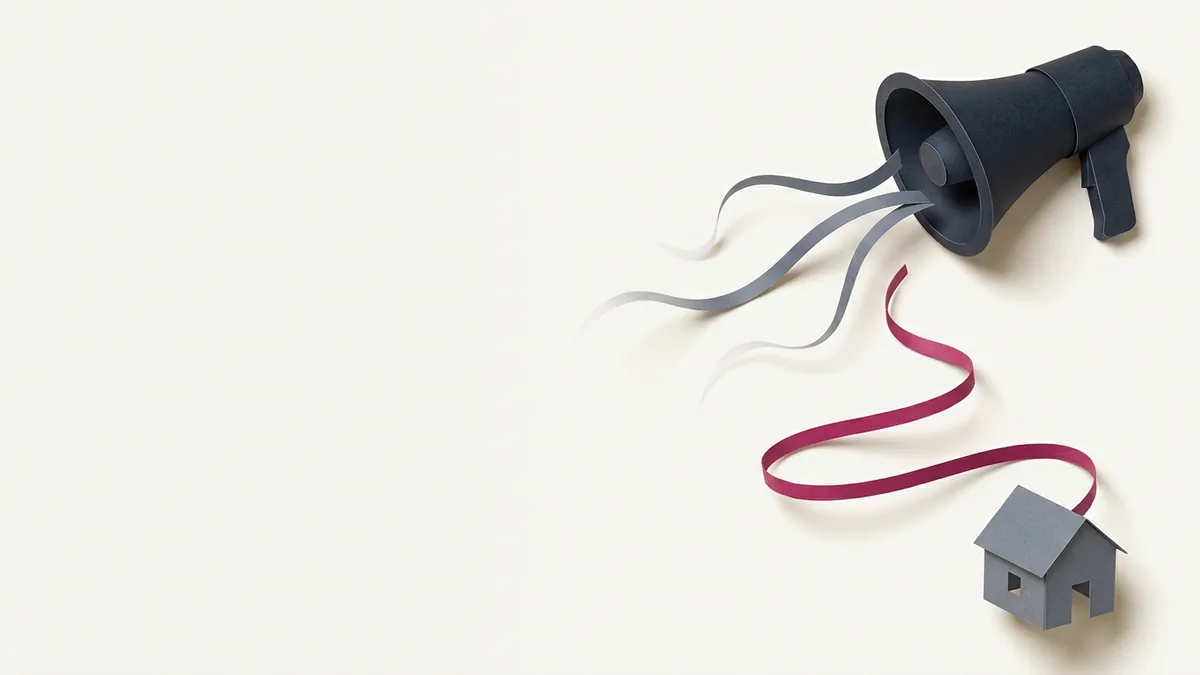
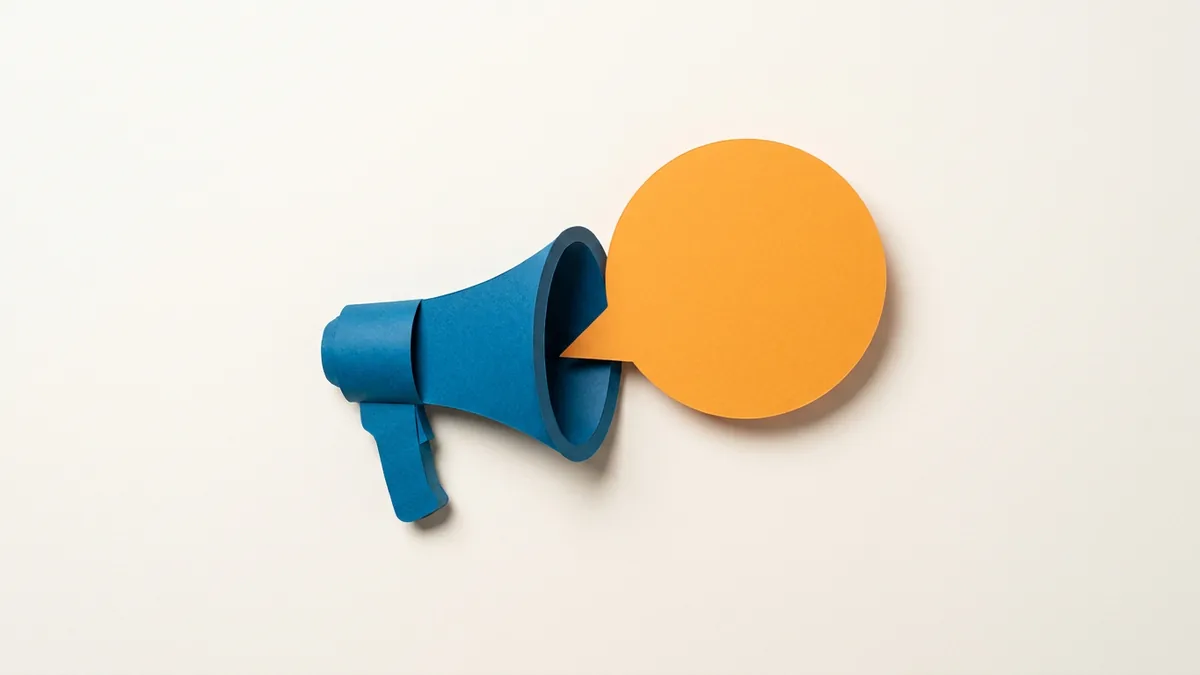
insights: ชื่อผู้เขียน · ความเห็นของผู้เขียน · การใช้ AI · วิธีอ้างอิง · ภาพ hero ตาม BRAND.md (#81)
* insights: author byline, opinion disclaimer, AI-assistance note and suggested citation

All three posts are by Smith Boonchutima. Each article page now says the views
are the author's own, that AI helped polish and translate the text and the
author reviewed it, and gives an APA-style citation (Thai version in B.E.).
JSON-LD author becomes the person rather than the Center.

Claude-Session: https://claude.ai/code/session_01CQJsM3v3SyBC2VxjnAvC4W

* insights: replace dark hero images with BRAND.md E3 paper-craft (LINE megaphone, AI microphone)

Claude-Session: https://claude.ai/code/session_01CQJsM3v3SyBC2VxjnAvC4W

---------

Changed region(s): [[0.2467, 0.0622, 0.9867, 1.0], [0.9867, 0.9956, 1.0, 1.0]]

diff --git a/src/data/insights.ts b/src/data/insights.ts
@@ -65,6 +65,16 @@ export type InsightCopy = {
   ogImage?: string;
 };
 
+export type InsightAuthor = {
+  th: string;
+  en: string;
+  /** สำหรับรายการอ้างอิงแบบ APA: นามสกุล, อักษรย่อชื่อ */
+  apa: string;
+};
+
+/** บทความทุกชิ้นในชุดแรกเขียนโดยคนเดียวกัน — ประกาศครั้งเดียว ไม่พิมพ์ชื่อซ้ำสามที่ */
+const SMITH: InsightAuthor = { th: "สมิทธิ์ บุญชุติมา", en: "Smith Boonchutima", apa: "Boonchutima, S." };
+
 export type InsightPost = {
   slug: string;
   /** YYYY-MM-DD วันที่เผยแพร่บนเว็บ */
@@ -75,6 +85,8 @@ export type InsightPost = {
   evidence?: string[];
   /** slug ของโครงการบนหน้า Impact ที่บทความอ้างถึง */
   relatedProjects?: string[];
+  /** ผู้เขียน — แสดงใต้หัวเรื่อง ในรายการอ้างอิงที่แนะนำ และใน JSON-LD (ผู้ใช้กำหนด 23 ต.ค. 2569) */
+  author: InsightAuthor;
   th: InsightCopy;
   en: InsightCopy;
 };
@@ -83,6 +95,7 @@ export const insights: InsightPost[] = [
   {
     slug: "co-designed-campaigns-migrant-workers",
     date: "2026-10-20",
+    author: SMITH,
     cover: "/images/research/summaries/migrant-worker-exercise-codesign",
     evidence: [
       "migrant-worker-exercise-codesign",
@@ -384,10 +397,11 @@ export const insights: InsightPost[] = [
   {
     slug: "line-news-trust-2026",
     date: "2026-10-21",
+    author: SMITH,
     cover: "/images/insights/line-news-trust-2026-hero",
     th: {
       coverAlt:
-        "ภาพประกอบกระดาษ โทรโข่งสีดำปล่อยแถบกระดาษสีเทาหลายเส้นที่ลอยจางหายไปกลางทาง มีเพียงแถบสีชมพูเส้นเดียวที่คดเคี้ยวลงไปถึงบ้านหลังเล็ก",
+        "ภาพประกอบกระดาษ โทรโข่งสีน้ำเงินบนพื้นกระดาษสีครีม เสียงที่ออกจากปากโทรโข่งกลายเป็นบับเบิลแชตสีส้มกลมๆ อันเดียว",
       coverCaption: "ภาพประกอบสร้างด้วย AI",
       title: "ช่องทางมีแล้ว แต่ความเชื่อใจหายไป: บทเรียนจากข้อมูลข่าวสารของคนไทยปี 2026",
       dek: "ข้อมูลปี 2026 ชี้ว่าคนไทยรับข่าวผ่านเฟซบุ๊กและ LINE แต่ความเชื่อมั่นต่อข่าวลดเหลือ 47% หน่วยงานรัฐควรสื่อสารอย่างไรให้คนเชื่อและลงมือทำ",
@@ -526,7 +540,7 @@ export const insights: InsightPost[] = [
     en: {
       title: "The channels are there, the trust is not: what Thailand's 2026 news data tells public communicators",
       coverAlt:
-        "Paper-craft illustration: a black megaphone sends out several grey paper strips that drift and fade, while a single pink strip winds all the way down to a small house",
+        "Paper-craft illustration on cream paper: a blue megaphone whose sound turns into a single round orange chat bubble",
       coverCaption: "Illustration generated with AI",
       dek: "Data from 2026 shows Thais get their news on Facebook and LINE, yet trust in news has fallen to 47%. How should government agencies communicate so that people believe the message and act on it?",
       body: [
@@ -664,10 +678,11 @@ export const insights: InsightPost[] = [
   {
     slug: "ai-news-comfort-2025",
     date: "2026-10-21",
+    author: SMITH,
     cover: "/images/insights/ai-news-comfort-2025-hero",
     th: {
       coverAlt:
-        "ภาพประกอบกระดาษ เวทีเล็กที่มีม่านสีดำ ไมโครโฟนสีชมพูตั้งอยู่หน้าม่าน ส่วนเฟืองสีเทาซ่อนอยู่หลังม่านที่แง้มไว้",
+        "ภาพประกอบกระดาษ ไมโครโฟนตั้งโต๊ะสีส้มบนพื้นกระดาษสีครีม ฐานของไมโครโฟนเป็นเฟืองสีน้ำเงิน",
       coverCaption: "ภาพประกอบสร้างด้วย AI",
       title: "ให้ AI ช่วยได้ แต่อย่าให้ AI เป็นคนเล่า",
       dek: "ผลสำรวจ 6 ประเทศพบว่าคนสบายใจกับข่าวที่คนเขียน 62% แต่เหลือ 12% ถ้า AI เขียนทั้งหมด องค์กรไทยควรใช้ AI ในงานสื่อสารอย่างไรให้ไม่เสียความเชื่อใจ",
@@ -908,7 +923,7 @@ export const insights: InsightPost[] = [
     en: {
       title: "Let AI help, but don't let AI tell the story",
       coverAlt:
-        "Paper-craft illustration: a small stage with a black curtain, a pink microphone standing in front, and a grey gear half-hidden behind the parted curtain",
+        "Paper-craft illustration on cream paper: an orange desk microphone standing on a blue gear as its base",
       coverCaption: "Illustration generated with AI",
       dek: "A six-country survey finds 62% are comfortable with news written by people, but only 12% when AI writes it all. How should organisations use AI in communication without losing trust?",
       body: [

diff --git a/src/components/insights/InsightPages.tsx b/src/components/insights/InsightPages.tsx
@@ -25,6 +25,19 @@ function formatDate(iso: string, locale: FullLocale): string {
   return locale === "th" ? `${d} ${THAI_MONTHS[m - 1]} ${y + 543}` : `${d} ${EN_MONTHS[m - 1]} ${y}`;
 }
 
+/**
+ * รายการอ้างอิงที่แนะนำ — APA 7 สำหรับบทความบนเว็บไซต์ (ผู้เขียน · วันที่ · ชื่อเรื่อง · ผู้เผยแพร่ · URL)
+ * ฉบับไทยใช้ชื่อเต็มและปี พ.ศ. ตามธรรมเนียมการอ้างอิงภาษาไทย
+ */
+function suggestedCitation(post: InsightPost, locale: FullLocale): string {
+  const [y, m, d] = post.date.split("-").map(Number);
+  const url = `https://www.cominnocenter.com${locale === "th" ? "" : "/en"}/insights/${post.slug}`;
+  const t = T[locale];
+  return locale === "th"
+    ? `${post.author.th}. (${y + 543}, ${d} ${THAI_MONTHS[m - 1]}). ${post.th.title}. ${t.publisher}. ${url}`
+    : `${post.author.apa} (${y}, ${EN_MONTHS[m - 1]} ${d}). ${post.en.title}. ${t.publisher}. ${url}`;
+}
+
 const T = {
   th: {
     base: "/insights",
@@ -35,6 +48,12 @@ const T = {
     home: "← กลับหน้าหลัก",
     all: "บทความทั้งหมด",
     evidence: "งานวิจัยที่บทความนี้อ้างถึง",
+    by: "โดย",
+    about: "เกี่ยวกับบทความนี้",
+    opinion: "บทความนี้เป็นความคิดเห็นของผู้เขียน ไม่ได้สะท้อนความคิดเห็นของศูนย์ฯ",
+    aiNote: "บทความได้รับการปรับปรุงภาษาและแปลภาษาโดยใช้ AI ช่วย และผู้เขียนได้ตรวจทานแล้ว",
+    citeTitle: "หากต้องการอ้างอิงบทความนี้",
+    publisher: "ศูนย์เชี่ยวชาญเฉพาะทางด้านนวัตกรรมการสื่อสาร คณะนิเทศศาสตร์ จุฬาลงกรณ์มหาวิทยาลัย",
     references: "อ้างอิง",
     project: "โครงการที่เกี่ยวข้อง",
     collaborate: "ร่วมงานกับเรา",
@@ -51,6 +70,12 @@ const T = {
     home: "← Back to home",
     all: "All insights",
     evidence: "Research cited in this article",
+    by: "By",
+    about: "About this article",
+    opinion: "This article reflects the views of the author and does not necessarily reflect those of the Center.",
+    aiNote: "The language of this article was refined and translated with the help of AI, and the author has reviewed it.",
+    citeTitle: "To cite this article",
+    publisher: "Center of Excellence in Communication Innovation, Faculty of Communication Arts, Chulalongkorn University",
     references: "References",
     project: "Related project",
     collaborate: "Collaborate with us",
@@ -148,7 +173,9 @@ export function InsightArticlePage({ post, locale }: { post: InsightPost; locale
               </Link>
             </nav>
             <div className="mt-6 max-w-3xl">
-              <p className="text-sm font-medium text-neutral-500 mb-3">{formatDate(post.date, locale)}</p>
+              <p className="text-sm font-medium text-neutral-500 mb-3">
+                {t.by} {post.author[locale]} · {formatDate(post.date, locale)}
+              </p>
               <h1 className="text-h1-m md:text-h1 text-ink-900">{c.title}</h1>
               <p className="mt-4 text-lg text-neutral-600 leading-relaxed">{c.dek}</p>
             </div>
@@ -200,6 +227,14 @@ export function InsightArticlePage({ post, locale }: { post: InsightPost; locale
               )}
             </div>
             )}
+
+            <div className="mt-12 rounded-2xl border border-neutral-200 bg-neutral-100 p-6 text-sm leading-relaxed text-neutral-700">
+              <h2 className="text-h3-m md:text-h3 text-ink-900 mb-3">{t.about}</h2>
+              <p>{t.opinion}</p>
+              <p className="mt-2">{t.aiNote}</p>
+              <p className="mt-4 font-medium text-ink-900">{t.citeTitle}</p>
+              <p className="mt-1 break-words select-all">{suggestedCitation(post, locale)}</p>
+            </div>
 
             {c.references && c.references.length > 0 && (
               <div className="mt-12">

diff --git a/src/lib/schema.ts b/src/lib/schema.ts
@@ -288,7 +288,7 @@ export function insightArticleSchema(post: InsightPost, locale: FullLocale) {
     inLanguage: locale,
     image: `${SITE_URL}${insightImage(post, locale)}`,
     mainEntityOfPage: `${SITE_URL}${path}`,
-    author: { "@id": ORG_ID },
+    author: { "@type": "Person", name: post.author[locale] },
     publisher: { "@id": ORG_ID },
   };
 }

diff --git a/CLAUDE.md b/CLAUDE.md
@@ -95,7 +95,7 @@ public/
 | `researchMetrics.ts` | **ตัวชี้วัดระดับวารสารและระดับศูนย์ฯ จาก Scopus CiteScore 2025** (ผู้ใช้เก็บเอง 8 ก.ย. 2569) — `journalMetrics` 19 เล่ม · `centreSummary` · `scopusAuthors` 6 ท่าน · **จับคู่กับผลงานด้วยชื่อวารสาร ไม่ใช่ DOI** เพราะชุดข้อมูลต้นทางมี DOI ผิดสามรายการ (หนึ่งชี้ไปประกาศแก้ไขของบทความ อีกสองชี้ไปวิทยานิพนธ์ของนิสิต — ตรวจกับ Crossref แล้ว) DOI ที่ถูกอยู่ใน `publications.ts` ซึ่งผ่านการตรวจของสคริปต์มาแล้ว · ตัวเทียบชื่อแปลง `&` เป็น `and` ด้วย ไม่งั้นผลงานแปดชิ้นจับคู่ไม่ติดทั้งที่เป็นวารสารเล่มเดียวกัน · **percentile ต้องแสดงคู่ชื่อสาขาเสมอ** วารสารเล่มเดียวถูกจัดหลายสาขาและค่าต่างกันมาก (American Behavioral Scientist 97th ใน Cultural Studies แต่ 75th ใน Social Psychology) `check:content` ตรวจให้แล้ว · **ตัวหารไม่เท่ากัน** ผลงานในฐาน Scopus 48 ชิ้น แต่ตรวจ CiteScore ได้ 32 ชิ้น เขียนได้ว่า "24 จาก 32 ผลงานที่ตรวจสอบได้อยู่ในวารสารกลุ่มบนสุด 25% ของสาขา" **เขียนไม่ได้ว่า** "ผลงาน 75% ของศูนย์ฯ อยู่ใน Q1" · **ไม่ใช้ FWCI** ตัดสินใจร่วมกับผู้ใช้แล้ว · **ไม่ใช้ widget ของ Scopus** เพราะทดสอบแล้วโค้ดที่เขาให้ฝังค่าไว้ตายตัวเหมือนกัน แต่บังคับให้เพิ่มโดเมนภายนอกเข้า CSP |
 | `paperSummaries.ts` | บทสรุปย่อยง่ายไทย+อังกฤษของผลงานที่ทำหน้า `/research/[slug]` — **64 ชิ้นจาก 91** · **ฉบับจีนตัวย่อเป็น field `zh?` + `illustrationAltZh?` (optional โดยตั้งใจ — ทยอยแปลเป็นชุด ชุดที่ 1 = 10 ชิ้น PR #64 · ชุดที่ 2 = งานสุขภาพ/แรงงานข้ามชาติ 10 ชิ้น PR #66 · ชุดที่ 3 = `argument` ทั้ง 8 ชิ้น + สุขภาพ 2 ชิ้น PR #67 · งานของ ดร.อิบเตซาม 2 ชิ้น PR #73 · ชุดที่ 4 = การตลาด/ผู้บริโภค 5 + เอเชียตะวันออกเฉียงใต้/SDG 5 PR #74 · ชุดที่ 5 = เรื่องทั่วไป 8 + เลือกตั้งผู้ว่าฯ กทม. 2 PR #75 · ชุดที่ 6 (สุดท้าย) = สื่อรัสเซีย 5 + หัวข้ออ่อนไหว 5 + แม่วงก์ + วิกฤตโคราช PR #76 · **ครบ 64 จาก 64** — บทสรุปที่เพิ่มหลังจากนี้ต้องเติม `zh` ด้วย ไม่งั้นจะไม่มีหน้าจีนเงียบๆ)** หน้า `/zh/research/[slug]` · hreflang `zh-Hans` บนหน้าไทย/อังกฤษ · sitemap · ลิงก์ "อ่านบทสรุป" บน `/zh/research` · ดัชนีค้นหา ล้วนอ่านจาก field นี้ตัวเดียว (`paperSummariesZh`) จึงเปิดพร้อมกัน · ตัวตรวจท้ายไฟล์โยน error ถ้า `zh` กับ `illustrationAltZh` ไม่ครบคู่ · หน้าจีนไม่มีวิดีโอเพราะคลิปพากย์ไทย/อังกฤษเท่านั้น · **`kind` มีสองค่าสำหรับงานที่ไม่มีผลเชิงประจักษ์** — `"protocol"` ประกาศแผนวิจัย 3 ชิ้น (หัวข้อเป็น "จะทำอะไร") และ `"argument"` บทความเชิงแนวคิด 8 ชิ้น (หัวข้อเป็น "เสนออะไร" และป้ายบอกด้วยว่า**ข้อเสนอเป็นของผู้เขียน ไม่ใช่จุดยืนของศูนย์ฯ**) · ทั้งสองค่าเปลี่ยนหน้าเว็บ **สี่ที่** ต้องแก้ครบ: หัวข้อใน `PaperSummaryBody` · ป้ายเหนือเนื้อหา · คำนำหน้าชื่อเรื่องบนหน้า detail ทั้งสองภาษา · คำบนลิงก์ใน `ResearchExplorer`) · ผูกกับ `publications.ts` ด้วย `doi` **หรือ `indexUrl`** เพราะวารสารไทยใน ThaiJO (`jprad`, `jcomm`, `jcmn`) **ไม่ออก DOI ให้บทความเลย** เขียนเป็น union type บังคับให้มีอย่างใดอย่างหนึ่ง และ `publicationForSummary()` จะโยน error ถ้าเชื่อมไม่ติด (ให้ build พังดีกว่าปล่อยหน้ากำพร้าที่อยู่ใน sitemap แต่ขึ้น 404) · **`license` ไม่มีค่า = วารสารสงวนลิขสิทธิ์ ไม่ใช่ยังไม่ได้ตรวจ** ห้ามเดาใส่ และหน้าเว็บต้องไม่แสดงข้อความ CC ให้รายการที่ไม่มีค่า · `pdfUrl` ชี้ไปคลังของวารสารต้นทาง (เปิดแท็บใหม่) **เว็บไม่เก็บไฟล์ PDF เอง** · `localCopy` คือสำเนาใน `research-sources/papers/` ไว้ให้ AI อ่าน ไม่ได้เสิร์ฟ — **ใส่ได้เฉพาะ Creative Commons เพราะคลัง GitHub นี้เป็นสาธารณะ** ดู `research-sources/README.md` · **เน้นข้อความด้วย `**...**` ได้** `PaperSummaryBody` แปลงให้เป็นน้ำหนัก 500 (ห้ามใช้ `<strong>` เปล่าๆ เพราะค่าเริ่มต้นเบราว์เซอร์คือ 700 ผิด BRAND.md) · **ห้ามระบุชื่อองค์กรหรือบุคคลที่ถูกวิจารณ์ในข้อค้นพบ** (กติกาข้อ 5 ในหัวไฟล์) บทความต้นฉบับระบุได้เพราะเป็นงานวิชาการ แต่บทสรุปบนเว็บเป็นงานเขียนของศูนย์ฯ เอง ผู้อ่านย่อมอ่านว่าเป็นคำตัดสินของศูนย์ฯ · ต้องตัดตัวเลขที่ชี้ตัวได้ออกด้วย · ทุกรายการต้องมี `illustrationAltTh/En` และภาพสามขนาดใน `public/images/research/summaries/` |
 | `paperVideos.ts` | **วิดีโอเล่าสาระหลักของบทความ** (ทำแล้ว 25 เรื่อง = นำร่อง 3 + ชุดที่ 2 อีก 5 + ชุดที่ 3 อีก 5 + ชุดที่ 4 อีก 5 + ชุดที่ 5 อีก 5 + **ชุดที่ 7 อีก 2 (ผลงานของ ดร.อิบเตซาม · ไม่เจนภาพ · 29 ก.ย.)** · 50 คลิป — ฝังบนเว็บแล้วครบ 25 เรื่อง 50 คลิป · ชุดที่ 3–5 ผู้ใช้เผยแพร่ 5 ก.ย. ผ่าน Apps Script `ComInno-YouTube-Metadata.gs` ที่เขียนให้ — ใส่ชื่อ/คำอธิบาย/แท็กจาก CSV แล้วเผยแพร่ฉบับร่างทีเดียว 20 คลิป ใช้ YouTube Data API v3 ในตัว Apps Script · id เอาจาก log ของสคริปต์ + ฟีด RSS ของช่อง (`youtube.com/feeds/videos.xml?channel_id=…` ให้ 15 รายการล่าสุด) แล้วตรวจซ้ำด้วย oEmbed ว่าชื่อคลิปตรง) — slug → id YouTube ไทย/อังกฤษ + ความยาว + วันอัปโหลด · หน้า `/research/[slug]` สลับภาพประกอบหัวหน้าเป็นตัวเล่นวิดีโอ (`PaperVideo` — facade โหลด iframe เมื่อกดเล่น หน้าปกคือภาพประจำบทความในเว็บเรา ไม่ดึงจาก YouTube) และประกาศ `VideoObject` ใน JSON-LD เฉพาะหน้าที่มีคลิป · **คลิปต้องเป็น public หรือ unlisted** private ฝังไม่ได้ · `slug` ต้องตรงกับ `paperSummaries.ts` (โยน error ตอนโหลด + `check:content` ตรวจซ้ำ) · ไม่มี `youtubeId` = ยังไม่อัปโหลดคลิปภาษานั้น หน้าแสดงภาพประกอบตามปกติ · **ชุดที่ 6 เขียนสตอรี่บอร์ดแล้ว ยังไม่เจน และไม่มีกำหนด** (`scripts/video/storyboard_batch6.py` · ประเมิน $10.22) — **6 ก.ย. 2569 ผู้ใช้ตัดสินใจว่าต่อไปนี้ไม่สร้างวิดีโอที่เจนด้วย AI แบบนี้อีก** เพราะเปลืองเครดิตและดูไม่เป็นธรรมชาติ · **ห้ามเสนอหรือสั่งเจนชุดที่ 6 เอง** จะทำได้ก็ต่อเมื่อผู้ใช้เปิดเรื่องนี้ขึ้นมาใหม่เป็นคำสั่งชัดเจน |
-| `insights.ts` | **บทความ (Insights)** หน้า `/insights` + `/en/insights` (20 ต.ค. 2569) — งานเขียนของศูนย์ฯ ที่เรียบเรียงหลักฐานจากหลายงานวิจัยเพื่อผู้อ่านที่อาจมาร่วมงาน (หน่วยงานรัฐ องค์กรระหว่างประเทศ เอเจนซี) · ใช้คู่มือเสียงจากชุดไฟล์ ComInno Content Studio ของผู้ใช้ · **ตัวเลขทุกตัวต้องมาจากงานที่มีหน้าบทสรุปแล้ว** และใส่ slug ไว้ใน `evidence` (build พังถ้า slug ไม่มีจริง) · ตัวละครเปิดเรื่องต้องกำกับว่าสมมติ · งานก่อนตั้งศูนย์ฯ ห้ามเขียนว่าศูนย์ฯ ทำ · ชื่อหน่วยงานใช้ได้เฉพาะที่อยู่บนหน้า Impact (ผู้ใช้อนุมัติ) · ไม่มีฉบับจีน · ไม่ใช้ `**` · `/insights` เดิมเป็น redirect จาก Wix ไป `/news` ลบออกแล้ว (`/blog` ยังไป `/news`) · ลำดับบทความที่ผู้ใช้ให้จัดเอง: ① ออกแบบร่วมกับผู้รับสาร ② สื่อสารสุขภาพกับคนเข้าถึงยาก ③ วัดผลเกินยอดไลก์ ④ ภาพไทยในสื่อต่างชาติ ⑤ ทำงานกับศูนย์วิจัยในมหาวิทยาลัย · **บทความที่สอง `line-news-trust-2026` (21 ต.ค.) ใช้สถิติจาก Statista** ที่ผู้ใช้เปิดดูผ่านบัญชีที่ล็อกอินเอง — สถิติภายนอกไม่มีหน้าบทสรุปให้ผูก จึงใส่ใน `references` (URL + วันที่เข้าถึง) แทน `evidence` · **ห้ามคัดลอกภาพกราฟของ Statista** สร้างใหม่จากตัวเลขด้วย block `chart` (`InsightChart` วาดเอง ป้ายเป็นข้อความจริง หน้าอังกฤษจึงได้กราฟภาษาอังกฤษ) และเครดิต "<แหล่งต้นทาง> via Statista" ใต้กราฟทุกครั้ง · `cover`/`evidence` เป็น optional (บรีฟสั่งเว้นภาพหัวไว้) ภาพแชร์เลือกผ่าน `insightImage()` · block `tips` = ข้อแนะนำมีเลขกำกับ (ไม่ใช้ไอคอน lucide ที่มากับชุดไฟล์เพราะเป็นเส้นสีเดียว ไม่ใช่ภาษาภาพของ `SectionIcon`) · **บทความที่สาม `ai-news-comfort-2025` + ฉบับปรับบทความแรกที่เพิ่มสถิติ ILO via Statista (21 ต.ค.)** · **กราฟ interactive หกแบบ** (ตามคู่มือภาพ Content Studio "หนึ่งกราฟหนึ่งลูกเล่น ห้ามซ่อนข้อมูล"): `bar` + `guess` ทายก่อนเฉลย · `line` วาดตัวเอง + tooltip · `dial` แถบเลื่อนทีละขั้น · `pick` เลือกแล้วเทียบ (`InsightChartChoice`) · `waffle` 100 ช่องต่อปี · `coverage` มีสิทธิ์ vs ลงทะเบียน (`InsightChartShare`) — **HTML ที่ build ออกมาแสดงข้อมูลครบทุกค่า ลูกเล่นเริ่มหลัง hydrate** (ไม่มี JS/ลดการเคลื่อนไหวก็เห็นครบ) · ภาพ hero เจนด้วย gemini-3-pro-image ($0.20/ใบ ผู้ใช้เลือกจาก 3 แบบ) ต้องมี `coverCaption` "ภาพประกอบสร้างด้วย AI" · ลิงก์ภายในย่อหน้าใช้ `links` (build พังถ้าไม่เจอข้อความ) · รายการอ้างอิงอยู่หลังกล่องงานวิจัย หัวข้อตั้งได้ด้วย `referencesTitle` |
+| `insights.ts` | **บทความ (Insights)** หน้า `/insights` + `/en/insights` (20 ต.ค. 2569) — งานเขียนของศูนย์ฯ ที่เรียบเรียงหลักฐานจากหลายงานวิจัยเพื่อผู้อ่านที่อาจมาร่วมงาน (หน่วยงานรัฐ องค์กรระหว่างประเทศ เอเจนซี) · ใช้คู่มือเสียงจากชุดไฟล์ ComInno Content Studio ของผู้ใช้ · **ตัวเลขทุกตัวต้องมาจากงานที่มีหน้าบทสรุปแล้ว** และใส่ slug ไว้ใน `evidence` (build พังถ้า slug ไม่มีจริง) · ตัวละครเปิดเรื่องต้องกำกับว่าสมมติ · งานก่อนตั้งศูนย์ฯ ห้ามเขียนว่าศูนย์ฯ ทำ · ชื่อหน่วยงานใช้ได้เฉพาะที่อยู่บนหน้า Impact (ผู้ใช้อนุมัติ) · ไม่มีฉบับจีน · ไม่ใช้ `**` · `/insights` เดิมเป็น redirect จาก Wix ไป `/news` ลบออกแล้ว (`/blog` ยังไป `/news`) · ลำดับบทความที่ผู้ใช้ให้จัดเอง: ① ออกแบบร่วมกับผู้รับสาร ② สื่อสารสุขภาพกับคนเข้าถึงยาก ③ วัดผลเกินยอดไลก์ ④ ภาพไทยในสื่อต่างชาติ ⑤ ทำงานกับศูนย์วิจัยในมหาวิทยาลัย · **บทความที่สอง `line-news-trust-2026` (21 ต.ค.) ใช้สถิติจาก Statista** ที่ผู้ใช้เปิดดูผ่านบัญชีที่ล็อกอินเอง — สถิติภายนอกไม่มีหน้าบทสรุปให้ผูก จึงใส่ใน `references` (URL + วันที่เข้าถึง) แทน `evidence` · **ห้ามคัดลอกภาพกราฟของ Statista** สร้างใหม่จากตัวเลขด้วย block `chart` (`InsightChart` วาดเอง ป้ายเป็นข้อความจริง หน้าอังกฤษจึงได้กราฟภาษาอังกฤษ) และเครดิต "<แหล่งต้นทาง> via Statista" ใต้กราฟทุกครั้ง · `cover`/`evidence` เป็น optional (บรีฟสั่งเว้นภาพหัวไว้) ภาพแชร์เลือกผ่าน `insightImage()` · block `tips` = ข้อแนะนำมีเลขกำกับ (ไม่ใช้ไอคอน lucide ที่มากับชุดไฟล์เพราะเป็นเส้นสีเดียว ไม่ใช่ภาษาภาพของ `SectionIcon`) · **บทความที่สาม `ai-news-comfort-2025` + ฉบับปรับบทความแรกที่เพิ่มสถิติ ILO via Statista (21 ต.ค.)** · **กราฟ interactive หกแบบ** (ตามคู่มือภาพ Content Studio "หนึ่งกราฟหนึ่งลูกเล่น ห้ามซ่อนข้อมูล"): `bar` + `guess` ทายก่อนเฉลย · `line` วาดตัวเอง + tooltip · `dial` แถบเลื่อนทีละขั้น · `pick` เลือกแล้วเทียบ (`InsightChartChoice`) · `waffle` 100 ช่องต่อปี · `coverage` มีสิทธิ์ vs ลงทะเบียน (`InsightChartShare`) — **HTML ที่ build ออกมาแสดงข้อมูลครบทุกค่า ลูกเล่นเริ่มหลัง hydrate** (ไม่มี JS/ลดการเคลื่อนไหวก็เห็นครบ) · ภาพ hero เจนด้วย gemini-3-pro-image (**≈ $0.30/ใบเมื่อแนบภาพอ้างอิงสไตล์** ไม่ใช่ $0.20 — ประเมินราคาพร้อมภาพอ้างอิงเสมอ) · **ยึด BRAND.md E3 เท่านั้น ไม่ใช้ GROK-INSTRUCTIONS.md** (ผู้ใช้สั่ง 23 ต.ค.): วัตถุเดียวกลางภาพ · สองสีจากพาเลต SDG ตามหัวข้อ · พื้นกระดาษครีม · ชุดแรกที่เป็นโทนดำผู้ใช้ปฏิเสธเพราะไม่เข้ากับธีม · ภาพปัจจุบัน LINE = โทรโข่งน้ำเงิน SDG16 + บับเบิลส้ม SDG11 · AI = ไมโครโฟนส้ม SDG9 บนฐานเฟืองน้ำเงิน SDG16 ต้องมี `coverCaption` "ภาพประกอบสร้างด้วย AI" · ลิงก์ภายในย่อหน้าใช้ `links` (build พังถ้าไม่เจอข้อความ) · รายการอ้างอิงอยู่หลังกล่องงานวิจัย หัวข้อตั้งได้ด้วย `referencesTitle` |
 | `leadership.ts` | ผู้บริหารศูนย์ |
 | `team.ts` / `researchers.ts` | ทีมงานและนักวิจัย |
 | `partners.ts` | หน่วยงานพันธมิตร |
